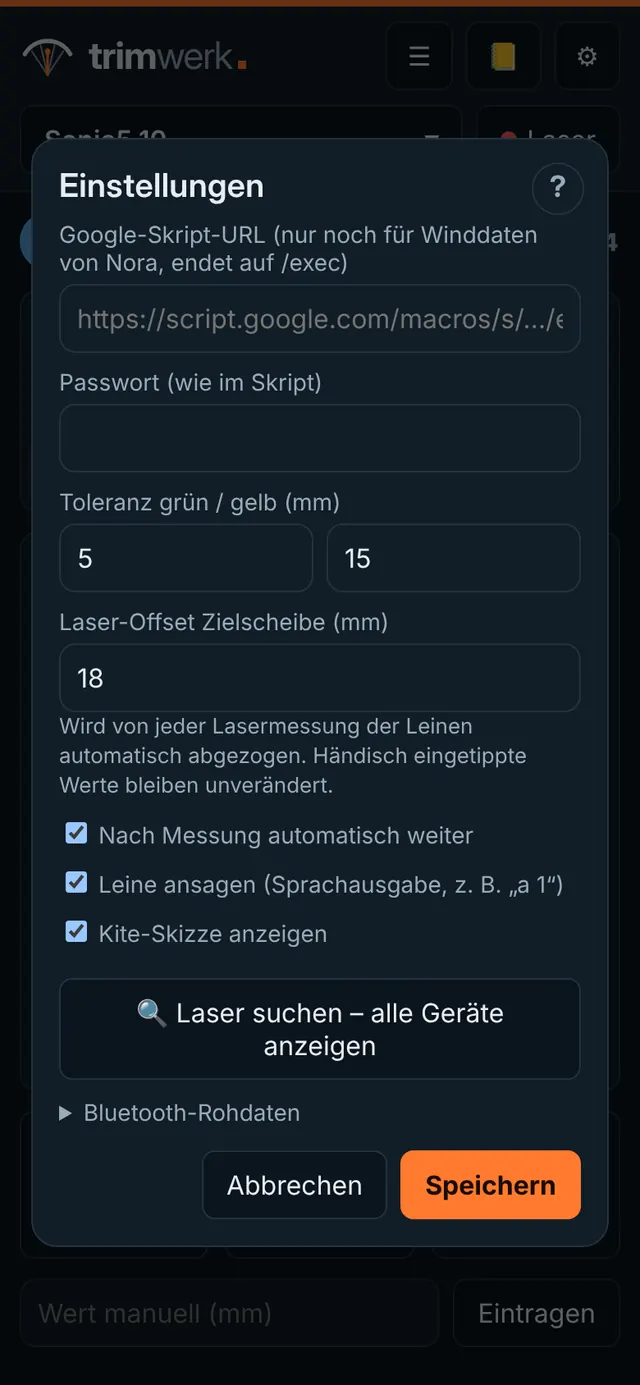
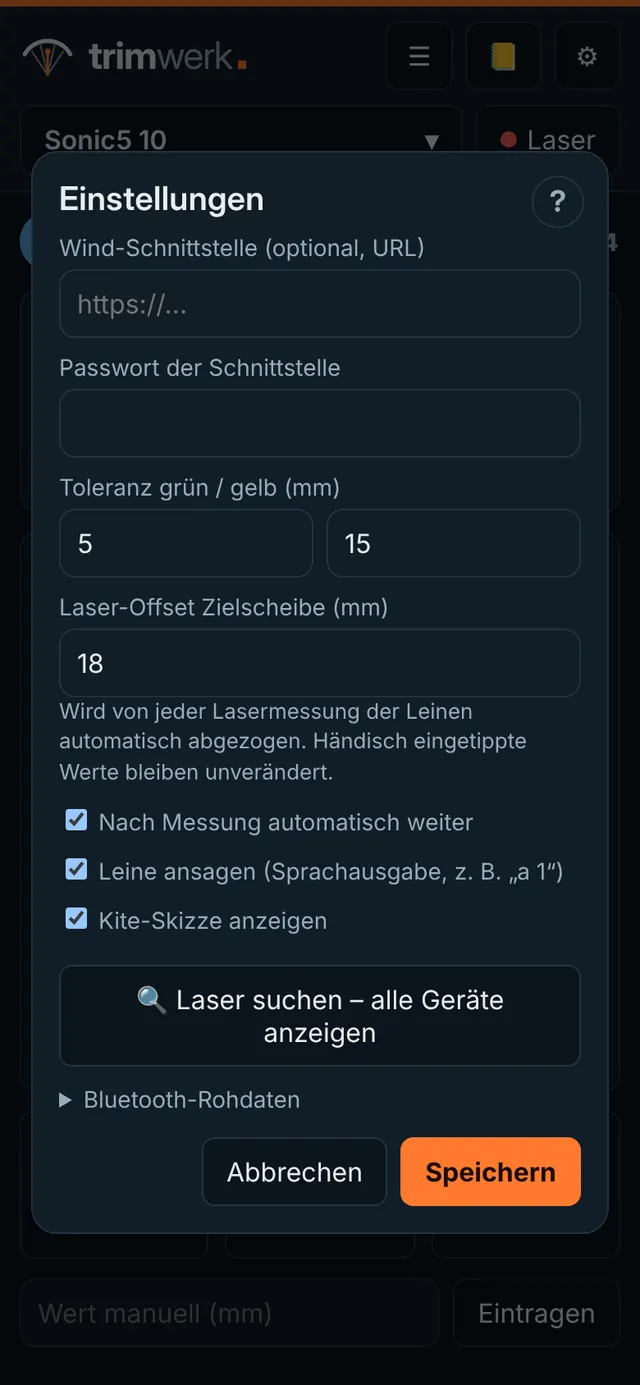
Wind: Datei-Import (CSV/JSON) mit Einheiten-Erkennung, allgemeine Wind-Schnittstelle, Datenbeschreibung in der Hilfe; Anbietername entfernt
Claude-Session: https://claude.ai/code/session_01SxsauJVYFXbDRSU68pG8U5

diff --git a/app/index.html b/app/index.html
@@ -102,6 +102,7 @@
   #queue{font-size:13px;color:var(--warn);text-align:center;min-height:1em}
   dialog{background:var(--panel);color:var(--text);border:1px solid var(--line);border-radius:16px;padding:16px;width:min(560px,94vw);max-height:90dvh}
   dialog::backdrop{background:rgba(0,0,0,.6)}
+  [hidden]{display:none!important}
   dialog{position:fixed} .qhelp{position:absolute;top:14px;right:14px;width:32px;height:32px;border-radius:50%;border:1.5px solid var(--line);
     display:flex;align-items:center;justify-content:center;color:var(--muted);text-decoration:none;font-weight:700;font-family:var(--f-display);font-size:18px;z-index:1}
   .qhelp:hover{color:var(--text);border-color:var(--muted)}
@@ -272,9 +273,9 @@
 <dialog id="cfg">
   <a class="qhelp" href="../hilfe/index.html#einstellungen" target="_blank" rel="noopener" aria-label="Hilfe: Einstellungen" title="Hilfe">?</a>
   <h2>Einstellungen</h2>
-  <label for="cUrl">Google-Skript-URL (nur noch für Winddaten von Nora, endet auf /exec)</label>
-  <input id="cUrl" placeholder="https://script.google.com/macros/s/…/exec">
-  <label for="cKey">Passwort (wie im Skript)</label>
+  <label for="cUrl">Wind-Schnittstelle (optional, URL)</label>
+  <input id="cUrl" placeholder="https://…">
+  <label for="cKey">Passwort der Schnittstelle</label>
   <input id="cKey" type="password">
   <label for="cTol">Toleranz grün / gelb (mm)</label>
   <div style="display:flex;gap:8px"><input id="cTol1" type="number" inputmode="numeric"><input id="cTol2" type="number" inputmode="numeric"></div>
@@ -437,16 +438,24 @@
       <label for="lbBoard">Board / Stand / Bar</label>
       <input id="lbBoard" placeholder="z. B. Jaime SLS 136, 55 cm, L-Bar">
 
-      <div class="sec">Wind</div>
+      <div class="sec">Wind <a href="../hilfe/index.html#wind" target="_blank" rel="noopener" style="color:var(--muted);font-size:12px">Welche Daten?</a></div>
       <div class="f2">
-        <div><label for="lbStation">Station</label>
-          <select id="lbStation">
+        <div><label for="lbStation">Quelle / Station</label><input id="lbStation" placeholder="z. B. Windmesser am Spot"></div>
+        <div><label>&nbsp;</label><button class="btn" id="lbWindFile" type="button" style="width:100%">📄 Winddatei laden</button>
+          <input type="file" id="lbWindIn" accept=".csv,.txt,.json,text/csv,text/plain,application/json" hidden></div>
+      </div>
+      <div class="f2" id="lbWindApi" hidden>
+        <div><label for="lbApiStation">Station (Schnittstelle)</label>
+          <select id="lbApiStation">
             <option value="segelschule-neusiedl">Segelschule Neusiedl</option>
             <option value="zamg-neusiedl1">Neusiedl 1 (ZAMG)</option>
             <option value="zamg-neusiedl2">Neusiedl 2 (ZAMG)</option>
           </select></div>
-        <div><label>&nbsp;</label><button class="btn" id="lbWindBtn" type="button" style="width:100%">🌬 Von Nora holen</button></div>
+        <div><label>&nbsp;</label><button class="btn" id="lbWindBtn" type="button" style="width:100%">🌬 Wind abrufen</button></div>
       </div>
+      <div style="display:flex;gap:8px;align-items:center;margin-top:6px"><label for="lbWindUnit" style="margin:0;white-space:nowrap">Einheit in der Datei</label>
+        <select id="lbWindUnit" style="flex:1"><option value="">automatisch erkennen</option><option value="kn">Knoten (kn)</option><option value="m/s">m/s</option><option value="km/h">km/h</option></select></div>
+      <p class="hint" id="lbWindInfo" style="margin:4px 0 0">CSV- oder JSON-Datei mit Zeit und Wind (optional Böen, Richtung) – die App rechnet Ø, Böen und Richtung für „Zeit von–bis“ aus. Oder die Werte unten direkt eintragen.</p>
       <div class="f3">
         <div><label for="lbWAvg">Ø kn</label><input id="lbWAvg" type="number" inputmode="decimal"></div>
         <div><label for="lbWGust">Böen kn</label><input id="lbWGust" type="number" inputmode="decimal"></div>
@@ -501,7 +510,7 @@ let device = null, chr = null, wakeLock = null, lastPkt = { v:null, t:0 };
 /* ---------- Google-Skript ---------- */
 async function api(params){
   if (window.SBAPI && SBAPI.has(params.action)) return SBAPI.call(params);   // Daten in Supabase
-  if (!cfg.url) throw new Error(params.action === 'wind' ? 'Winddaten: Google-Skript-URL in ⚙ eintragen' : 'Keine Skript-URL – bitte in ⚙ eintragen');
+  if (!cfg.url) throw new Error(params.action === 'wind' ? 'Keine Wind-Schnittstelle eingetragen (⚙)' : 'Keine Schnittstellen-URL – bitte in ⚙ eintragen');
   const q = new URLSearchParams({ ...params, key: cfg.key });
   const r = await fetch(cfg.url + '?' + q.toString(), { redirect:'follow' });
   const j = await r.json();
@@ -1131,7 +1140,8 @@ $('cfgSave').onclick = () => {
 
 /* ---------- Logbuch (Trimm & Session) ---------- */
 let lbType = 'Trimm', lbWindSrc = '';
-const lbPrefs = Object.assign({ load:5, board:'', station:'segelschule-neusiedl', method:'', rig:'Trim2go' }, store.get('lbPrefs', {}));
+const lbPrefs = Object.assign({ load:5, board:'', station:'', apiStation:'segelschule-neusiedl', method:'', rig:'Trim2go' }, store.get('lbPrefs', {}));
+if (/^(segelschule|zamg)-/.test(lbPrefs.station)) { lbPrefs.apiStation = lbPrefs.station; lbPrefs.station = ''; }
 const today = () => { const d = new Date(); d.setMinutes(d.getMinutes() - d.getTimezoneOffset()); return d.toISOString().slice(0, 10); };
 const num = id => { const v = $(id).value.trim().replace(',', '.'); return v === '' ? '' : Number(v); };
 
@@ -1156,6 +1166,7 @@ function openLb(){
   $('lbTitle').textContent = 'Logbuch · ' + kite;
   if (!$('lbDate').value) $('lbDate').value = today();
   $('lbLoad').value = lbPrefs.load; $('lbBoard').value = lbPrefs.board; $('lbStation').value = lbPrefs.station;
+  $('lbApiStation').value = lbPrefs.apiStation; $('lbWindApi').hidden = !cfg.url;
   $('lbMethod').value = lbPrefs.method;
   if ($('lbMethod').selectedIndex < 0) $('lbMethod').selectedIndex = 0;
   $('lbRig').value = lbPrefs.rig;
@@ -1201,7 +1212,7 @@ $('lbWindBtn').onclick = async () => {
   if (!(to > from)) return showToast('„bis“ muss nach „von“ liegen');
   $('lbWindBtn').disabled = true; $('lbWindBtn').textContent = '⏳ lade…';
   try{
-    const st = $('lbStation').value, q = { action:'wind', from:from.toISOString(), to:to.toISOString() };
+    const st = $('lbApiStation').value, q = { action:'wind', from:from.toISOString(), to:to.toISOString() };
     const j = await api({ ...q, station:st });
     // Richtungssensor der Segelschule zeigt ~30° zu weit östlich → Richtung von ZAMG Neusiedl 1 übernehmen
     let dir = j.dir, src = '';
@@ -1209,10 +1220,102 @@ $('lbWindBtn').onclick = async () => {
       try{ dir = (await api({ ...q, station:'zamg-neusiedl1' })).dir; src = ' (Richtung: ZAMG Neusiedl 1)'; }catch(e){}
     }
     $('lbWAvg').value = j.avg; $('lbWGust').value = j.gust; $('lbWDir').value = dir;
-    lbWindSrc = src;
+    lbWindSrc = src; $('lbStation').value = $('lbApiStation').selectedOptions[0].text;
     showToast(`Wind: Ø ${j.avg} kn, Böen ${j.gust} kn, ${dir}°${src}`);
   }catch(e){ showToast('⚠ ' + e.message); }
-  finally{ $('lbWindBtn').disabled = false; $('lbWindBtn').textContent = '🌬 Von Nora holen'; }
+  finally{ $('lbWindBtn').disabled = false; $('lbWindBtn').textContent = '🌬 Wind abrufen'; }
+};
+
+/* ---------- Winddatei (CSV/JSON) ---------- */
+const WIND = {
+  // Spalten erkennen (Reihenfolge wichtig: Richtung/Böen vor Wind, weil „Windrichtung“ auch „wind“ enthält)
+  col(h){
+    const n = h.toLowerCase().replace(/[^a-zäöüß0-9/°]/g, '');
+    if (/zeitstempel|timestamp|datetime|uhrzeit|zeitpunkt|datumzeit/.test(n) || /^(time|zeit|utc|lokal|local)/.test(n)) return 'time';
+    if (/^(datum|date|tag|day)$/.test(n)) return 'date';
+    if (/richt|dir|grad|deg|°/.test(n) || n === 'dd') return 'dir';
+    if (/b(ö|oe)|gust|spitze|peak|max/.test(n) || n === 'fx' || n === 'ffx') return 'gust';
+    if (/wind|speed|geschw|mittel|avg|mean|ws|ff|kn|knot|ms|kmh/.test(n)) return 'avg';
+    return '';
+  },
+  unit(h){
+    const n = h.toLowerCase();
+    if (/m\/s|\bms\b|\(ms\)|m s-1|mps|meter/.test(n)) return 'm/s';
+    if (/km\/h|kmh|kph/.test(n)) return 'km/h';
+    if (/kn|knot|kt\b|knoten/.test(n)) return 'kn';
+    return '';
+  },
+  factor: { 'kn':1, 'm/s':1.943844, 'km/h':0.539957 },
+  num(v){ if (v == null) return NaN; const t = String(v).trim().replace(/\s/g, ''); if (!t) return NaN;
+    return Number(/,\d+$/.test(t) && !/\.\d+,/.test(t) ? t.replace(/\./g, '').replace(',', '.') : t.replace(/,/g, '')); },
+  time(v, dateV, day){
+    if (v == null || v === '') return null;
+    if (typeof v === 'number' || /^\d{9,13}$/.test(String(v).trim())) { const x = Number(v); return new Date(x < 1e11 ? x * 1000 : x); }
+    let t = String(v).trim(); if (dateV) t = String(dateV).trim() + ' ' + t;
+    let m = t.match(/^(\d{1,2})\.(\d{1,2})\.(\d{2,4})[ T,]+(\d{1,2}):(\d{2})(?::(\d{2}))?/);
+    if (m) return new Date(+(m[3].length === 2 ? '20' + m[3] : m[3]), m[2] - 1, +m[1], +m[4], +m[5], +(m[6] || 0));
+    m = t.match(/^(\d{4})-(\d{2})-(\d{2})[ T](\d{1,2}):(\d{2})(?::(\d{2}))?(\.\d+)?\s*(Z|[+-]\d{2}:?\d{2})?$/);
+    if (m) return m[8] ? new Date(t.replace(' ', 'T')) : new Date(+m[1], m[2] - 1, +m[3], +m[4], +m[5], +(m[6] || 0));
+    m = t.match(/^(\d{1,2}):(\d{2})(?::(\d{2}))?$/);
+    if (m && day) { const [y, mo, d] = day.split('-').map(Number); return new Date(y, mo - 1, d, +m[1], +m[2], +(m[3] || 0)); }
+    const x = new Date(t); return isNaN(x) ? null : x;
+  },
+  table(text, name){
+    text = text.replace(/^\uFEFF/, '').trim();
+    if (/\.json$/i.test(name) || /^[\[{]/.test(text)) {
+      let j = JSON.parse(text); if (!Array.isArray(j)) j = j.data || j.values || j.records || Object.values(j).find(Array.isArray) || [];
+      if (!j.length || typeof j[0] !== 'object') throw new Error('JSON: erwartet wird eine Liste von Einträgen');
+      const head = Object.keys(j[0]); return { head, rows: j.map(o => head.map(k => o[k])) };
+    }
+    const lines = text.split(/\r?\n/).filter(l => l.trim() && !/^#/.test(l));
+    const first = lines[0]; const sep = [';', '\t', ','].sort((a, b) => first.split(b).length - first.split(a).length)[0];
+    const split = l => l.split(sep).map(x => x.trim().replace(/^"(.*)"$/, '$1'));
+    return { head: split(first), rows: lines.slice(1).map(split) };
+  },
+  parse(text, name, day, from, to){
+    const { head, rows } = WIND.table(text, name);
+    const idx = {}; head.forEach((h, i) => { const c = WIND.col(h); if (c && idx[c] === undefined) idx[c] = i; });
+    if (idx.time === undefined && idx.date !== undefined) { idx.time = idx.date; delete idx.date; }
+    if (idx.time === undefined) throw new Error('Keine Zeit-Spalte gefunden (z. B. „Zeit“, „Datum“, „timestamp“)');
+    if (idx.avg === undefined && idx.gust === undefined) throw new Error('Keine Wind-Spalte gefunden (z. B. „Wind kn“, „Wind m/s“)');
+    const force = $('lbWindUnit').value, uh = head[idx.avg ?? idx.gust];
+    const unit = force || WIND.unit(uh) || WIND.unit(head.join(' ')) || 'kn', f = WIND.factor[unit];
+    const gUnit = force || (idx.gust !== undefined ? (WIND.unit(head[idx.gust]) || unit) : unit), gf = WIND.factor[gUnit];
+    const guessed = !force && !WIND.unit(uh) && !WIND.unit(head.join(' '));
+    const pts = rows.map(r => ({ t: WIND.time(r[idx.time], idx.date !== undefined ? r[idx.date] : null, day),
+      a: idx.avg !== undefined ? WIND.num(r[idx.avg]) * f : NaN, g: idx.gust !== undefined ? WIND.num(r[idx.gust]) * gf : NaN,
+      d: idx.dir !== undefined ? WIND.num(r[idx.dir]) : NaN })).filter(p => p.t && !isNaN(p.t));
+    if (!pts.length) throw new Error('Keine lesbaren Zeitangaben in der Datei');
+    const sel = pts.filter(p => p.t >= from && p.t <= to);
+    if (!sel.length) {
+      const fmt = d => d.toLocaleString('de-AT', { day:'2-digit', month:'2-digit', hour:'2-digit', minute:'2-digit' });
+      const ts = pts.map(p => +p.t); throw new Error(`Keine Werte in der Session-Zeit. Die Datei reicht von ${fmt(new Date(Math.min(...ts)))} bis ${fmt(new Date(Math.max(...ts)))}`);
+    }
+    const A = sel.map(p => p.a).filter(x => !isNaN(x)), G = sel.map(p => p.g).filter(x => !isNaN(x)), D = sel.map(p => p.d).filter(x => !isNaN(x) && x >= 0 && x <= 360);
+    const avg = A.length ? A.reduce((s, x) => s + x, 0) / A.length : NaN;
+    const gust = G.length ? Math.max(...G) : (A.length ? Math.max(...A) : NaN);
+    let dir = NaN; if (D.length) { const sx = D.reduce((s, x) => s + Math.sin(x * Math.PI / 180), 0), cx = D.reduce((s, x) => s + Math.cos(x * Math.PI / 180), 0);
+      dir = (Math.round(Math.atan2(sx, cx) * 180 / Math.PI) + 360) % 360; }
+    return { avg: isNaN(avg) ? '' : Math.round(avg * 10) / 10, gust: isNaN(gust) ? '' : Math.round(gust * 10) / 10, dir: isNaN(dir) ? '' : dir,
+      n: sel.length, unit, guessed, gustFromAvg: !G.length && A.length > 0 };
+  }
+};
+$('lbWindFile').onclick = () => {
+  if (!$('lbDate').value || !$('lbFrom').value || !$('lbTo').value) return showToast('Bitte zuerst Datum und Zeit von/bis eintragen');
+  $('lbWindIn').value = ''; $('lbWindIn').click();
+};
+$('lbWindIn').onchange = async () => {
+  const file = $('lbWindIn').files[0]; if (!file) return;
+  const d = $('lbDate').value, from = new Date(`${d}T${$('lbFrom').value}`), to = new Date(`${d}T${$('lbTo').value}`);
+  if (!(to > from)) return showToast('„bis“ muss nach „von“ liegen');
+  try{
+    const r = WIND.parse(await file.text(), file.name, d, from, to);
+    $('lbWAvg').value = r.avg; $('lbWGust').value = r.gust; $('lbWDir').value = r.dir;
+    if (!$('lbStation').value.trim()) $('lbStation').value = file.name.replace(/\.[^.]+$/, '');
+    lbWindSrc = '';
+    $('lbWindInfo').textContent = `✓ ${file.name}: ${r.n} Werte in der Session-Zeit · Einheit ${r.unit}${r.guessed ? ' (angenommen – sonst Einheit wählen)' : ''}${r.unit !== 'kn' ? ' → kn umgerechnet' : ''}${r.gustFromAvg ? ' · keine Böen-Spalte, Böen = höchster Mittelwert' : ''}${r.dir === '' ? ' · keine Richtung in der Datei' : ''}`;
+    showToast(`Wind: Ø ${r.avg} kn, Böen ${r.gust} kn${r.dir !== '' ? ', ' + r.dir + '°' : ''}`);
+  }catch(e){ $('lbWindInfo').textContent = '⚠ ' + e.message; showToast('⚠ ' + e.message); }
 };
 // Versatz links/rechts → eine Spalte, z. B. "L 27 / R 28" (+ = Front länger)
 function lbOffsetText(){
@@ -1233,7 +1336,7 @@ $('lbSave').onclick = async () => {
     versatz: lbOffsetText(), knoten: sess ? $('lbKnotS').value.trim() : (secOn('lbBarOn') ? $('lbKnot').value.trim() : ''),
     board: sess ? $('lbBoard').value.trim() : '',
     wind: sess ? num('lbWAvg') : '', boeen: sess ? num('lbWGust') : '', richtung: sess ? num('lbWDir') : '',
-    station: sess && $('lbWAvg').value ? $('lbStation').selectedOptions[0].text + lbWindSrc : '',
+    station: sess && $('lbWAvg').value ? ($('lbStation').value.trim() + lbWindSrc).trim() : '',
     spruenge: sess ? num('lbJumps') : '', hoehe_avg: sess ? num('lbJAvg') : '', hoehe_max: sess ? num('lbJMax') : '',
     hangtime: sess ? num('lbHang') : '', datei: sess ? $('lbFile').value.trim() : '',
     notiz: $('lbNote').value.trim(),
@@ -1261,7 +1364,7 @@ $('lbSave').onclick = async () => {
   $('lbSave').disabled = true;
   try{
     await api({ action:'log', kite, data: JSON.stringify(data) });
-    Object.assign(lbPrefs, { station:$('lbStation').value, board: sess ? data.board : lbPrefs.board,
+    Object.assign(lbPrefs, { station:$('lbStation').value.trim(), apiStation:$('lbApiStation').value, board: sess ? data.board : lbPrefs.board,
       load: sess ? lbPrefs.load : (data.last || lbPrefs.load), method: sess ? lbPrefs.method : data.methode,
       rig: sess ? lbPrefs.rig : data.vorrichtung });
     store.set('lbPrefs', lbPrefs);

diff --git a/hilfe/index.html b/hilfe/index.html
@@ -71,6 +71,8 @@ table.def{width:100%;border-collapse:collapse;font-size:15px;margin:4px 0 10px}
 mark{background:color-mix(in srgb,var(--accent) 40%,transparent);color:inherit;border-radius:2px}
 .hidden{display:none!important}
 .back{font-size:14px;color:var(--ink-2)}
+code{font-family:"IBM Plex Mono",ui-monospace,Menlo,Consolas,monospace;font-size:.9em;background:var(--paper);border:1px solid var(--rule);border-radius:4px;padding:0 5px;white-space:nowrap}
+pre.code{font-family:"IBM Plex Mono",ui-monospace,Menlo,Consolas,monospace;font-size:14px;background:var(--paper);border:1px solid var(--rule);border-radius:8px;padding:12px 14px;overflow-x:auto;margin:0 0 12px;line-height:1.5}
 </style>
 <!-- Zugang: derzeit nur nach Anmeldung. Für eine öffentliche Hilfe die folgenden fünf Zeilen entfernen. -->
 <style>.tw-wait body{visibility:hidden}</style>
@@ -116,7 +118,7 @@ mark{background:color-mix(in srgb,var(--accent) 40%,transparent);color:inherit;b
           <li><a href="#messen">Messen mit der App</a>
             <ol><li><a href="#kite-waehlen">Kite wählen</a></li><li><a href="#ablauf">Ablauf einer Messung</a></li><li><a href="#korrigieren">Korrigieren und von Hand eintragen</a></li><li><a href="#uebersicht">Übersicht und Vergleich</a></li><li><a href="#sichern">Messreihe sichern</a></li><li><a href="#einstellungen">Einstellungen</a></li></ol></li>
           <li><a href="#logbuch">Logbuch</a>
-            <ol><li><a href="#lb-trimm">Trimm-Eintrag</a></li><li><a href="#lb-session">Session-Eintrag</a></li></ol></li>
+            <ol><li><a href="#lb-trimm">Trimm-Eintrag</a></li><li><a href="#lb-session">Session-Eintrag</a></li><li><a href="#wind">Winddaten</a></li></ol></li>
           <li><a href="#berichte">Meine Berichte</a>
             <ol><li><a href="#kennzahlen">Kennzahlen und Bewertung</a></li><li><a href="#vergleich">Berichte vergleichen</a></li><li><a href="#freigabe">Mit Freunden teilen</a></li></ol></li>
           <li><a href="#kaeufer">Käufer-Freigabe</a></li>
@@ -275,7 +277,7 @@ mark{background:color-mix(in srgb,var(--accent) 40%,transparent);color:inherit;b
               <tr><th>Automatisch weiter</th><td>Nach jeder Messung zur nächsten Leine springen.</td></tr>
               <tr><th>Leine ansagen</th><td>Die App sagt die nächste Leine an (z. B. „a 1“) – praktisch, wenn du nicht aufs Handy schauen willst.</td></tr>
               <tr><th>Kite-Skizze</th><td>Skizze über der Leinenanzeige ein- oder ausblenden.</td></tr>
-              <tr><th>Google-Skript-URL</th><td>Nur noch für das Abholen von Winddaten im Session-Logbuch nötig.</td></tr>
+              <tr><th>Wind-Schnittstelle</th><td>Optional: Adresse und Passwort einer Schnittstelle, die Winddaten automatisch liefert. Ohne Eintrag lädst du Winddaten als Datei (siehe <a href="#wind">Winddaten</a>).</td></tr>
             </tbody></table>
             <div class="todo"><b>✎ Ergänzen:</b> Wie wird der Laser-Offset für eine eigene Zielscheibe ermittelt?</div>
           </div>
@@ -317,13 +319,49 @@ mark{background:color-mix(in srgb,var(--accent) 40%,transparent);color:inherit;b
             <p>Für einen Tag auf dem Wasser oder am Land: Zeit, Material, Wind und wie es lief. So siehst du später, ob ein Trimm wirklich etwas gebracht hat.</p>
             <ul>
               <li><b>Board / Stand / Bar</b> und Knoten an der Bar.</li>
-              <li><b>Wind:</b> Station wählen und <span class="ui">Von Nora holen</span> trägt Ø-Wind, Böen und Richtung für die Session-Zeit ein (braucht die Google-Skript-URL in den Einstellungen).</li>
+              <li><b>Wind:</b> Ø-Wind, Böen und Richtung direkt eintragen – oder mit <span class="ui">📄 Winddatei laden</span> aus einer Datei deiner Wetterstation berechnen lassen (siehe <a href="#wind">Winddaten</a>).</li>
               <li><b>Ergebnis:</b> Sprünge, Hangtime, Höhen – z. B. von Garmin/WOO – und eine Notiz zum Gefühl.</li>
             </ul>
             <p>Session-Einträge bleiben immer privat, auch wenn du einen Kite mit Freunden teilst.</p>
           </div>
           <figure class="shot"><img src="img/app_lb_session.webp" width="640" height="1385" loading="lazy" alt="Logbuch, Reiter Session"><figcaption>Logbuch · Session</figcaption></figure>
         </div>
+      </article>
+      <article class="topic" id="wind">
+        <h3>Winddaten</h3>
+        <p>Zu jeder Session gehören drei Windwerte: <b>Ø-Wind</b>, <b>Böen</b> und <b>Richtung</b>. Du kannst sie direkt eintragen oder aus einer Datei berechnen lassen – die App nimmt dann nur die Werte zwischen <b>Zeit von</b> und <b>bis</b> der Session.</p>
+
+        <p><b>So geht’s</b></p>
+        <ol>
+          <li>Im Logbuch auf <span class="ui">🏄 Session</span>, Datum und Zeit von/bis eintragen.</li>
+          <li><span class="ui">📄 Winddatei laden</span> und die Datei wählen.</li>
+          <li>Die App trägt Ø-Wind, Böen und Richtung ein und zeigt darunter, wie viele Messwerte in der Session-Zeit lagen und welche Einheit sie erkannt hat.</li>
+          <li>Unter <b>Quelle / Station</b> notieren, woher die Daten stammen (z. B. „Windmesser Hafen“).</li>
+        </ol>
+
+        <p><b>Welche Daten werden gebraucht?</b></p>
+        <table class="def"><tbody>
+          <tr><th>Zeitpunkt <small>(Pflicht)</small></th><td>Datum und Uhrzeit jedes Messwerts – in einer Spalte (<code>2026-11-25 14:10</code>, <code>25.11.2026 14:10</code>, <code>2026-11-25T13:10Z</code>, Unix-Zeit) oder getrennt in <b>Datum</b> und <b>Uhrzeit</b>. Nur Uhrzeit (<code>14:10</code>) geht auch, dann gilt das Session-Datum. Ohne Zeitzone wird Ortszeit angenommen; Angaben mit <code>Z</code> oder <code>+01:00</code> werden umgerechnet.</td></tr>
+          <tr><th>Windgeschwindigkeit <small>(Pflicht)</small></th><td>Mittelwind je Messintervall (typisch 1–10 Minuten). Daraus wird der <b>Ø-Wind</b> der Session.</td></tr>
+          <tr><th>Böen <small>(empfohlen)</small></th><td>Spitzenwert je Intervall. Ins Logbuch kommt die <b>höchste Böe</b> der Session. Fehlt die Spalte, gilt der höchste Mittelwind.</td></tr>
+          <tr><th>Richtung <small>(optional)</small></th><td>In Grad, woher der Wind kommt (0/360 = Nord, 90 = Ost, 180 = Süd, 270 = West). Gemittelt wird richtig über Nord hinweg (350° und 10° ergibt 0°).</td></tr>
+          <tr><th>Einheit</th><td>Knoten, m/s oder km/h. Steht die Einheit in der Spaltenüberschrift (<code>Wind m/s</code>, <code>Böen (km/h)</code>), erkennt die App sie selbst; sonst unter <b>Einheit in der Datei</b> wählen. Ins Logbuch kommt immer <b>Knoten</b>.</td></tr>
+          <tr><th>Zeitraum</th><td>Die Datei muss die Session-Zeit abdecken. Ein ganzer Tag oder eine ganze Woche ist kein Problem.</td></tr>
+        </tbody></table>
+
+        <p><b>Dateiformate</b></p>
+        <ul>
+          <li><b>CSV/TXT</b> (Export aus Excel, Wetterstation, Windmesser-App): erste Zeile = Spaltennamen, Trennzeichen <code>;</code>, <code>,</code> oder Tabulator, Dezimalkomma oder -punkt.</li>
+          <li><b>JSON</b>: eine Liste von Einträgen mit denselben Angaben.</li>
+        </ul>
+        <p>Erkannte Spaltennamen (Groß-/Kleinschreibung egal): Zeit: <i>Zeit, Uhrzeit, Datum, Zeitstempel, time, timestamp</i> · Wind: <i>Wind, Mittel, Speed, avg, ff</i> · Böen: <i>Böen, Böe, Spitze, Gust, max, fx</i> · Richtung: <i>Richtung, Windrichtung, dir, Grad, dd</i>.</p>
+        <p><b>Beispiel (CSV)</b></p>
+<pre class="code">Zeit;Wind kn;Böen kn;Richtung
+25.11.2026 14:00;14,2;19,0;315
+25.11.2026 14:10;15,8;21,4;320
+25.11.2026 14:20;16,1;22,9;318</pre>
+        <p><b>Woher bekomme ich solche Daten?</b> Viele Wetterstationen, Windmesser und Wetter-Apps bieten einen CSV-Export der Messwerte. Staatliche Wetterdienste stellen Stationsdaten oft als CSV-Download bereit. Wichtig ist nur, dass Zeit und Wind enthalten sind.</p>
+        <div class="tip"><b>Automatisch per Schnittstelle:</b> Liefert eine Station ihre Daten über eine Adresse im Internet, lässt sich das als Wind-Schnittstelle einrichten (⚙ Einstellungen). Dann erscheint im Logbuch <span class="ui">🌬 Wind abrufen</span>. Bei Interesse melden – das richten wir je Station ein.</div>
       </article>
     </section>
 
